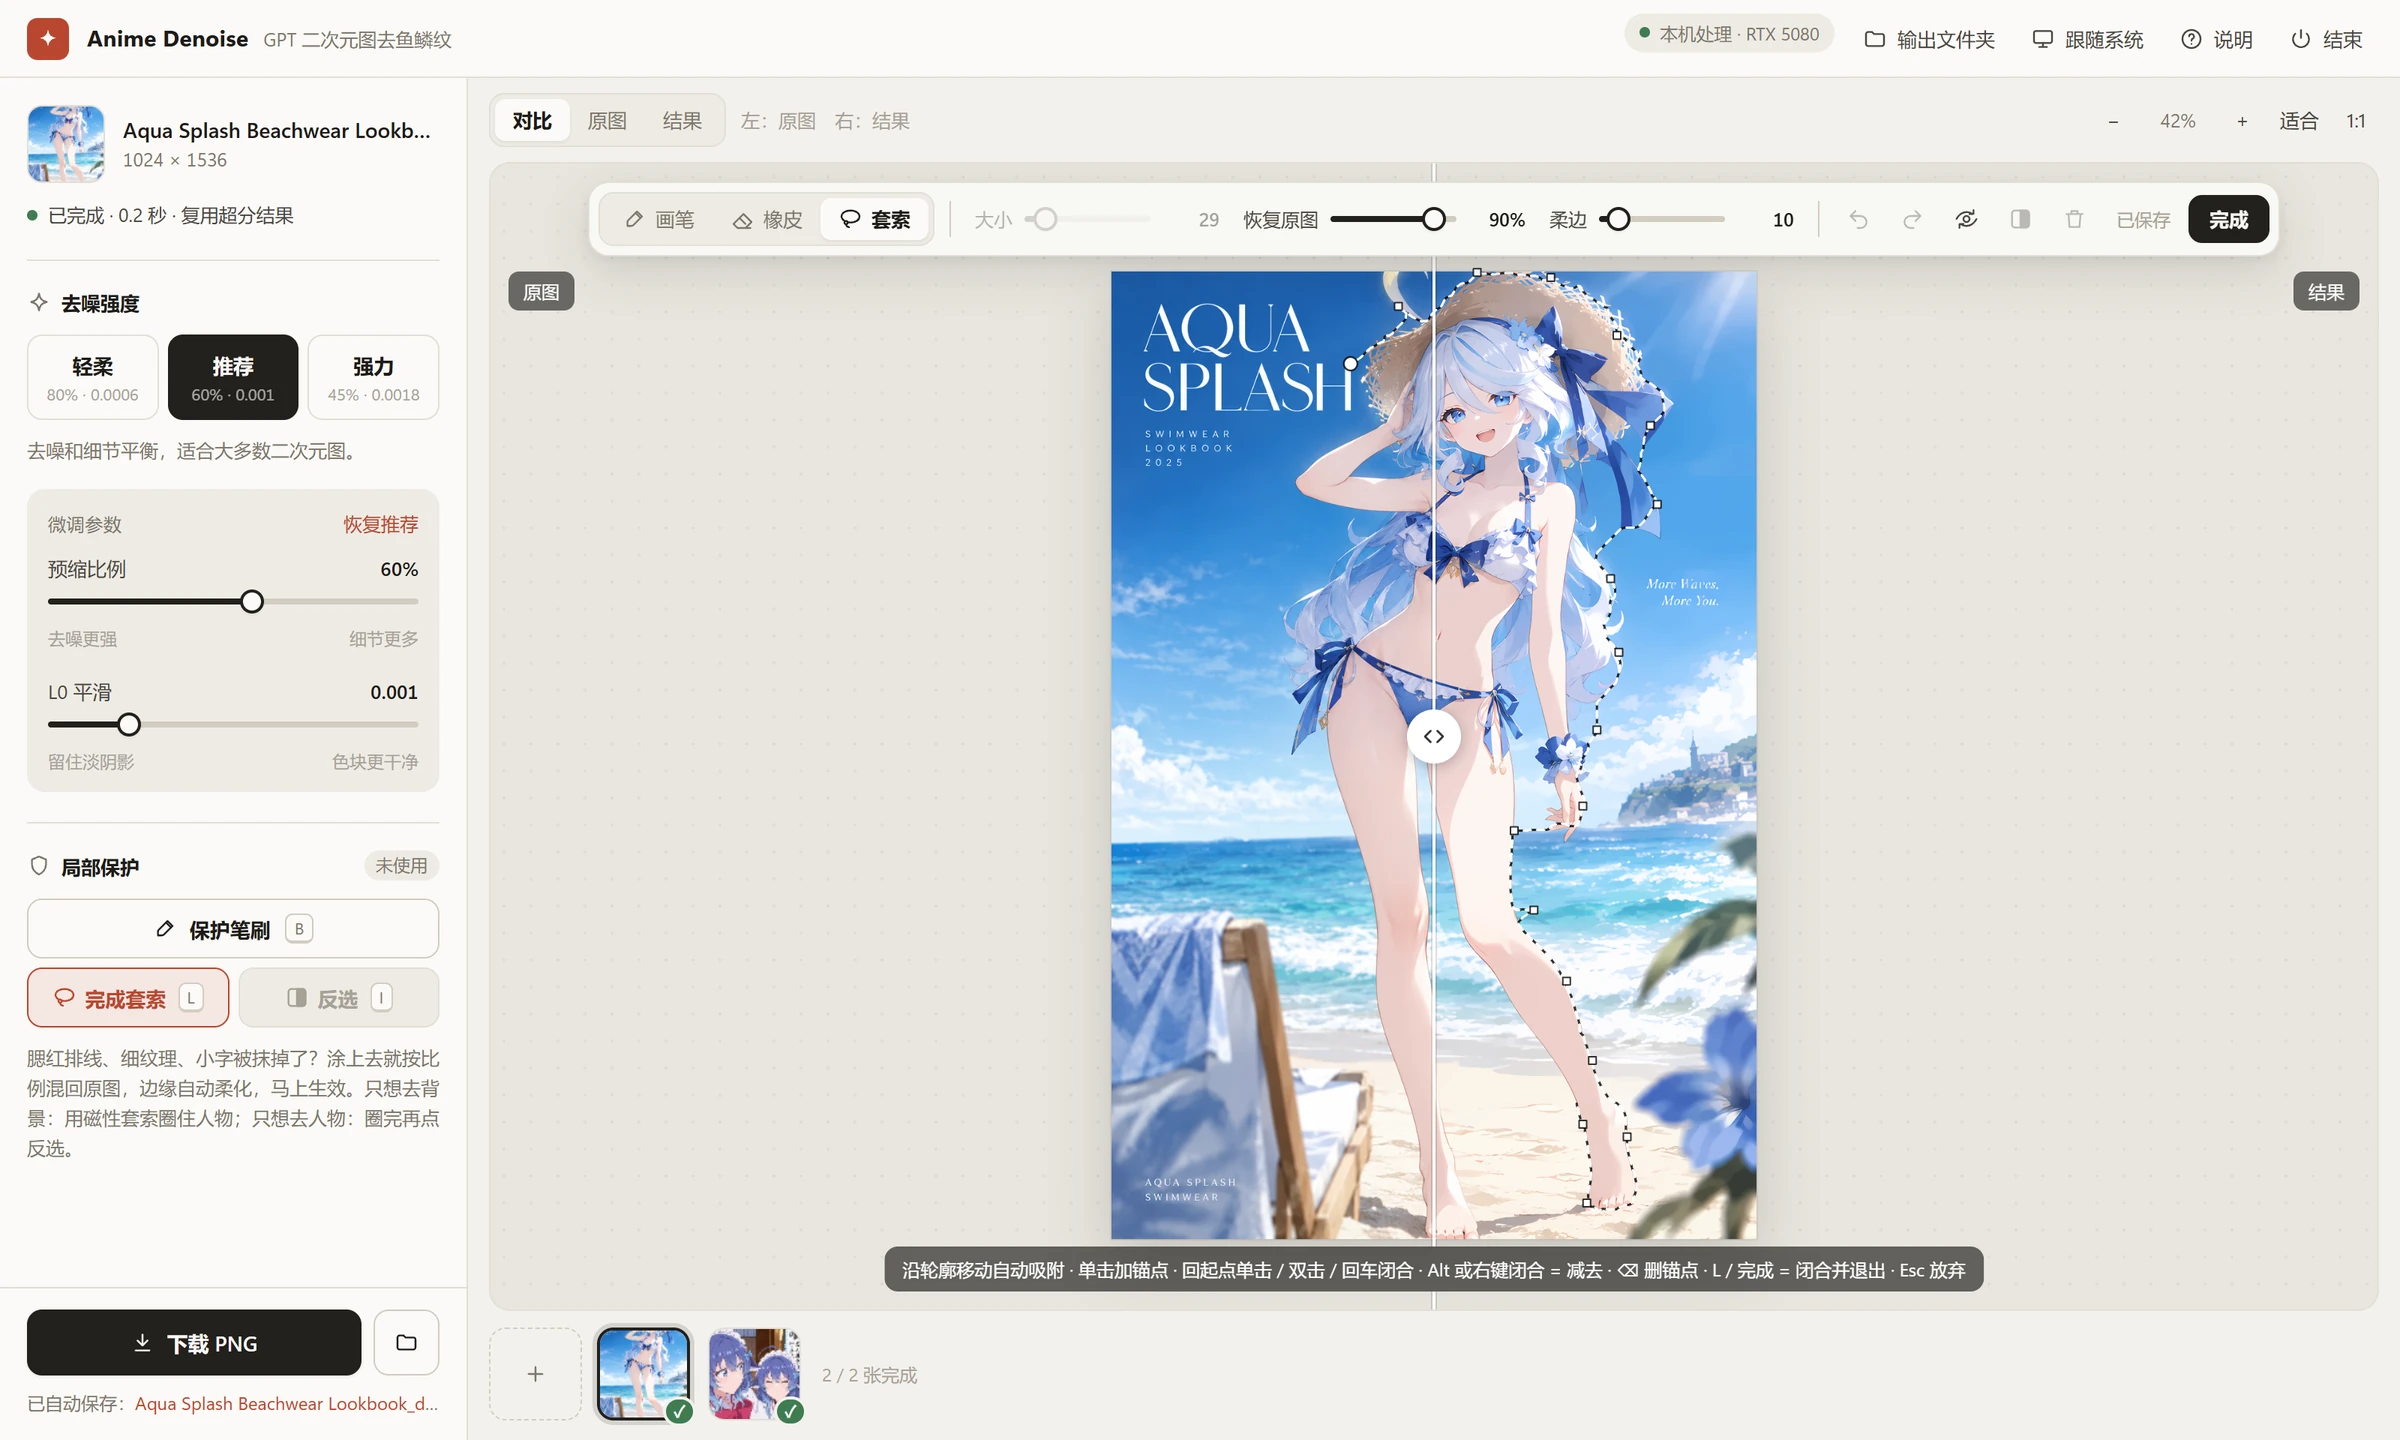
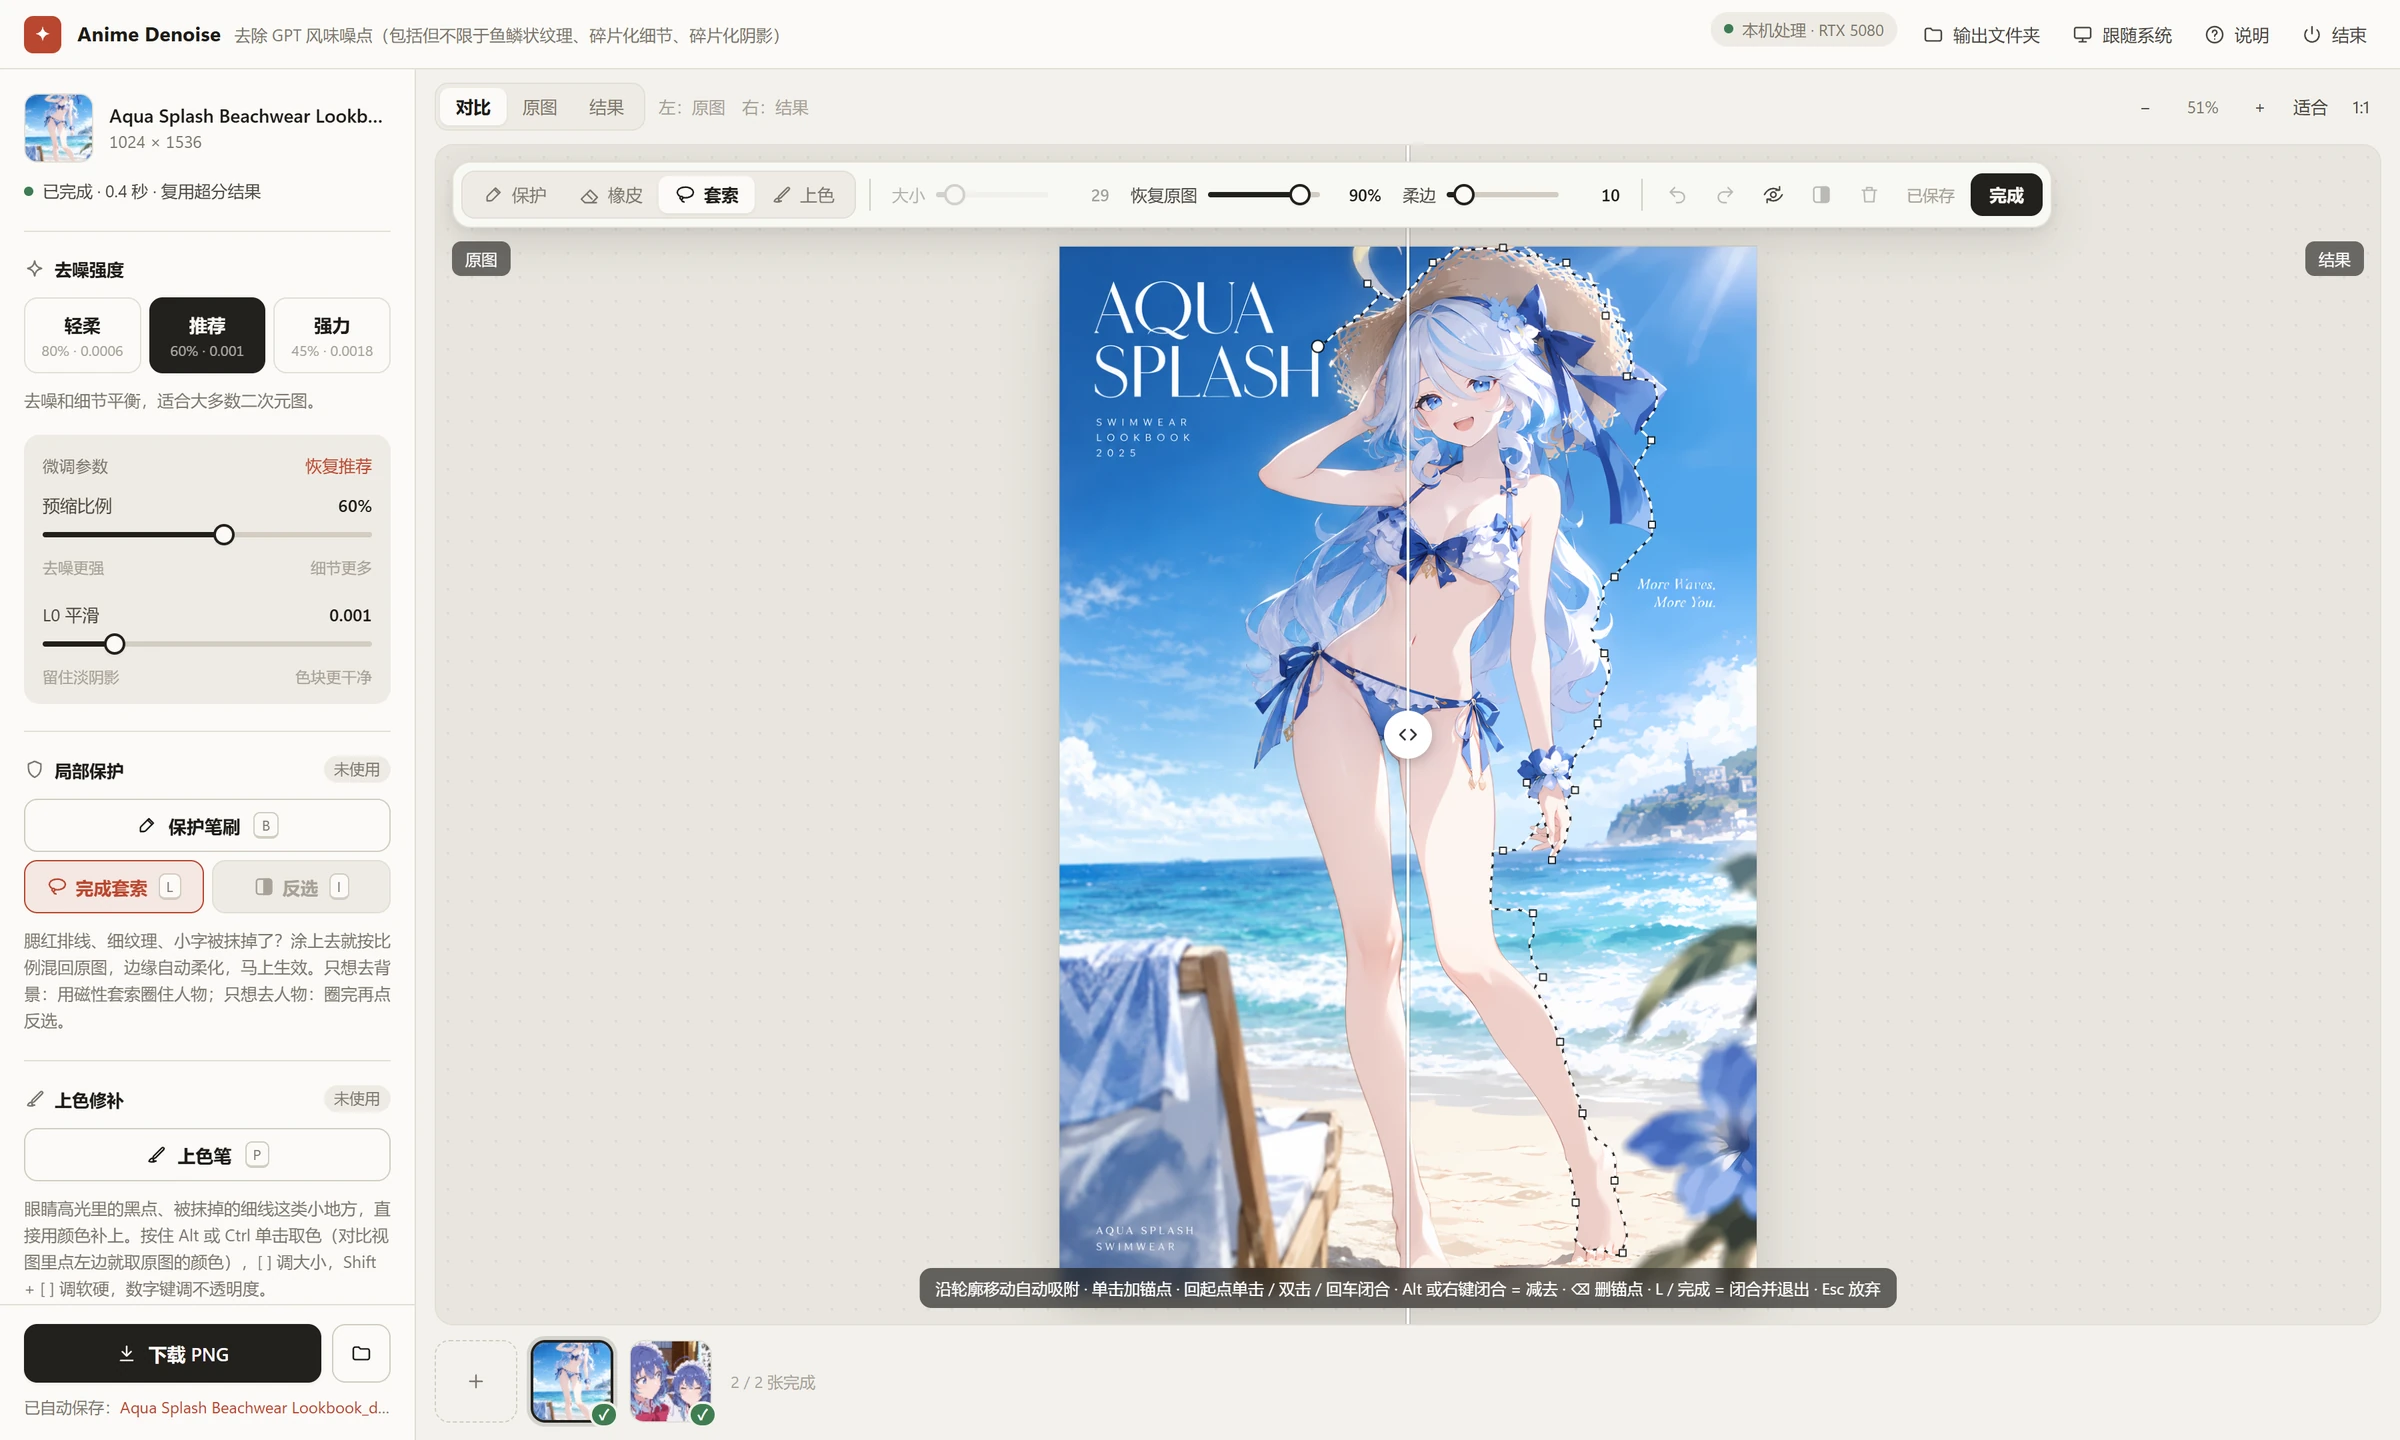
README: GUI screenshots for v1.3 (four tools, colour brush, eyedropper)
Re-shot the overview, brush, lasso, lasso result and dark screenshots on
the swimsuit poster with the current UI (tool bar on the left with
protect / eraser / lasso / colour, the colour-touch-up panel, new
tagline), and added a colour-brush screenshot: zoomed on the eyes, the
split between them, Ctrl held over the original's iris showing the
eyedropper ring.

Changed region(s): [[0.0, 0.0, 1.0, 1.0], [0.6875, 0.0, 1.0, 0.0312], [0.9062, 0.0625, 0.9688, 0.0938]]

diff --git a/README.md b/README.md
@@ -123,7 +123,9 @@ Windows 上也可以双击 `去噪工具.bat`：它依次找环境变量 `DENOIS
 
 ### 上色修补：画笔和吸管
 
-有时去噪会把很小的东西处理坏：眼睛高光里冒出黑点，口袋条纹、缝线被抹掉。用保护笔刷恢复原图，又会把旁边的鱼鳞纹一起带回来。这时可以不开 PS，直接用颜色补：
+有时去噪会把很小的东西处理坏：眼睛高光里冒出黑点，口袋条纹、缝线被抹掉。用保护笔刷恢复原图，又会把旁边的鱼鳞纹一起带回来。这时可以不开 PS，直接用颜色补。下图是放大到眼睛，按住 Ctrl 在左边原图上取色的样子（圆环上半圈是取到的颜色，下半圈是当前颜色）：
+
+![GUI 上色笔和吸管](examples/gui_paint.webp)
 
 - **上色笔**（按 `P`，或左侧「上色笔」/ 工具条上的「上色」）：涂的颜色放在单独的一层，盖在结果最上面。它不改原图，也不改保护区；重新去噪、改强度之后颜色还在；下载和自动保存的 PNG 里都带着它（文件名多一个 `_touchup`）。
 - **吸管**：用上色笔时按住 `Alt` 或 `Ctrl`，光标旁出现取色圆环（上半圈是鼠标下的颜色，下半圈是当前颜色），单击或拖动就取色，松开回到画笔。对比视图里点左边取原图的颜色，点右边取结果的颜色，方便对着原图修。
